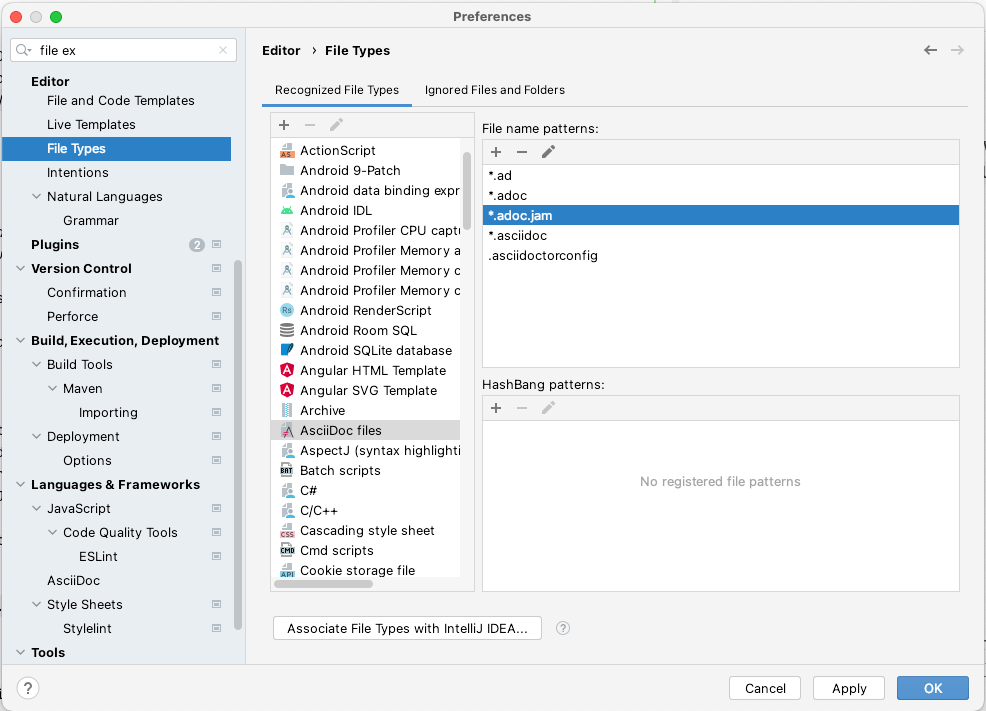
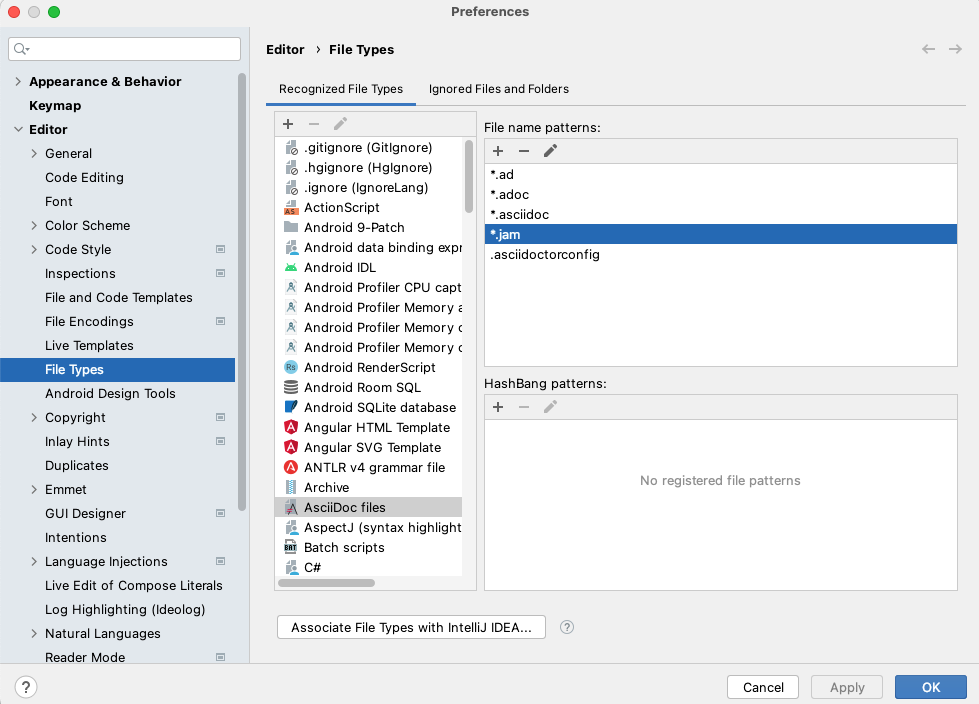
asciidoctor extension can work for non asciidoc Jamal files.

diff --git a/jamal-asciidoc/src/main/java/javax0/jamal/asciidoc/JamalPreprocessor.java b/jamal-asciidoc/src/main/java/javax0/jamal/asciidoc/JamalPreprocessor.java
@@ -62,6 +62,10 @@ public class JamalPreprocessor extends Preprocessor implements ExtensionRegistry
     public void process(Document document, PreprocessorReader reader) {
         final var runCounter = JamalPreprocessor.runCounter++;
         final var fileName = reader.getFile();
+        /*
+         * The plugin is invoked for all asciidoc files. If the file ending is adoc, asciidoc or anything else then
+         * there is nothing to do for the Jamal preprocessor.
+         */
         if (!fileName.endsWith(".jam")) {
             return;
         }
@@ -135,8 +139,32 @@ public class JamalPreprocessor extends Preprocessor implements ExtensionRegistry
                 logInfo(outputFileName, "dependencies\n" + cachingFileReader.list(), runCounter, LocalDateTime.now());
             }
         }
+        /*
+         * when the input is not asciidoc then we add this asciidoc prelude to display the text as source code,
+         * but the prelude and also the closing line does not get into the output
+         */
+        if (!fileName.endsWith(".adoc.jam")) {
+            logInfo(outputFileName, "adding pre and post ludes", runCounter, LocalDateTime.now());
+            final var sourcedLines = new ArrayList<String>();
+            sourcedLines.add("[source]");
+            sourcedLines.add("----");
+            for (final var line : newLines) {
+                // add an invisible space that will fool asciidoctor not to end the source block
+                if (line.trim().equals("----")) {
+                    sourcedLines.add("----\u200F\u200F\u200E \u200E");
+                } else {
+                    sourcedLines.add(line);
+                }
+            }
+            sourcedLines.add("----");
+            reader.restoreLines(sourcedLines);
+        } else {
+            logInfo(outputFileName, "not adding ludes", runCounter, LocalDateTime.now());
+            reader.restoreLines(newLines);
+        }
+        logInfo(outputFileName, "setting cache", runCounter, LocalDateTime.now());
         cache.set(new ProcessingCache(md5, newLines, cachingFileReader));
-        reader.restoreLines(newLines);
+        logInfo(outputFileName, "DONE", runCounter, LocalDateTime.now());
     }
 
     private List<String> postProcess(final List<String> lines, final Result r) {

diff --git a/jamal-asciidoc/src/test/java/javax0/jamal/asciidoc/TestJamalPreprocessor.java b/jamal-asciidoc/src/test/java/javax0/jamal/asciidoc/TestJamalPreprocessor.java
@@ -17,6 +17,10 @@ import java.nio.file.Paths;
 import java.util.List;
 
 public class TestJamalPreprocessor {
+
+    private static final String PRELUDE = "[source]\n----\n\n";
+    private static final String POSTLUDE = "----\n";
+
     private static final String TEST_OUTPUT = "c7ab6b1a6410dbb9a993a50496a8578d.adoc";
     private static final String TEST_INPUT = TEST_OUTPUT + ".jam";
     private static final String TEST_IMPORT = TEST_OUTPUT + ".jim";
@@ -144,9 +148,9 @@ public class TestJamalPreprocessor {
 17   c7ab6b1a6410dbb9a993a50496a8578d.adoc.jim oEZhG+ixKcULiztw1AYivQ==
          */
         final var lines = Files.readAllLines(Paths.get(LOG_OUTPUT), StandardCharsets.UTF_8);
-        Assertions.assertTrue(lines.get(8).endsWith("restored"));
-        Assertions.assertEquals("  " + TEST_IMPORT + " vpf/bqeUngN5AtDqUrH5Rw==", lines.get(11));
-        Assertions.assertFalse(lines.get(15).endsWith("restored"));
+        Assertions.assertTrue(lines.get(11).endsWith("restored"));
+        Assertions.assertEquals("  " + TEST_IMPORT + " vpf/bqeUngN5AtDqUrH5Rw==", lines.get(14));
+        Assertions.assertFalse(lines.get(18).endsWith("restored"));
     }
 
     private static void assertStartsWith(final String expected, final String actual) {
